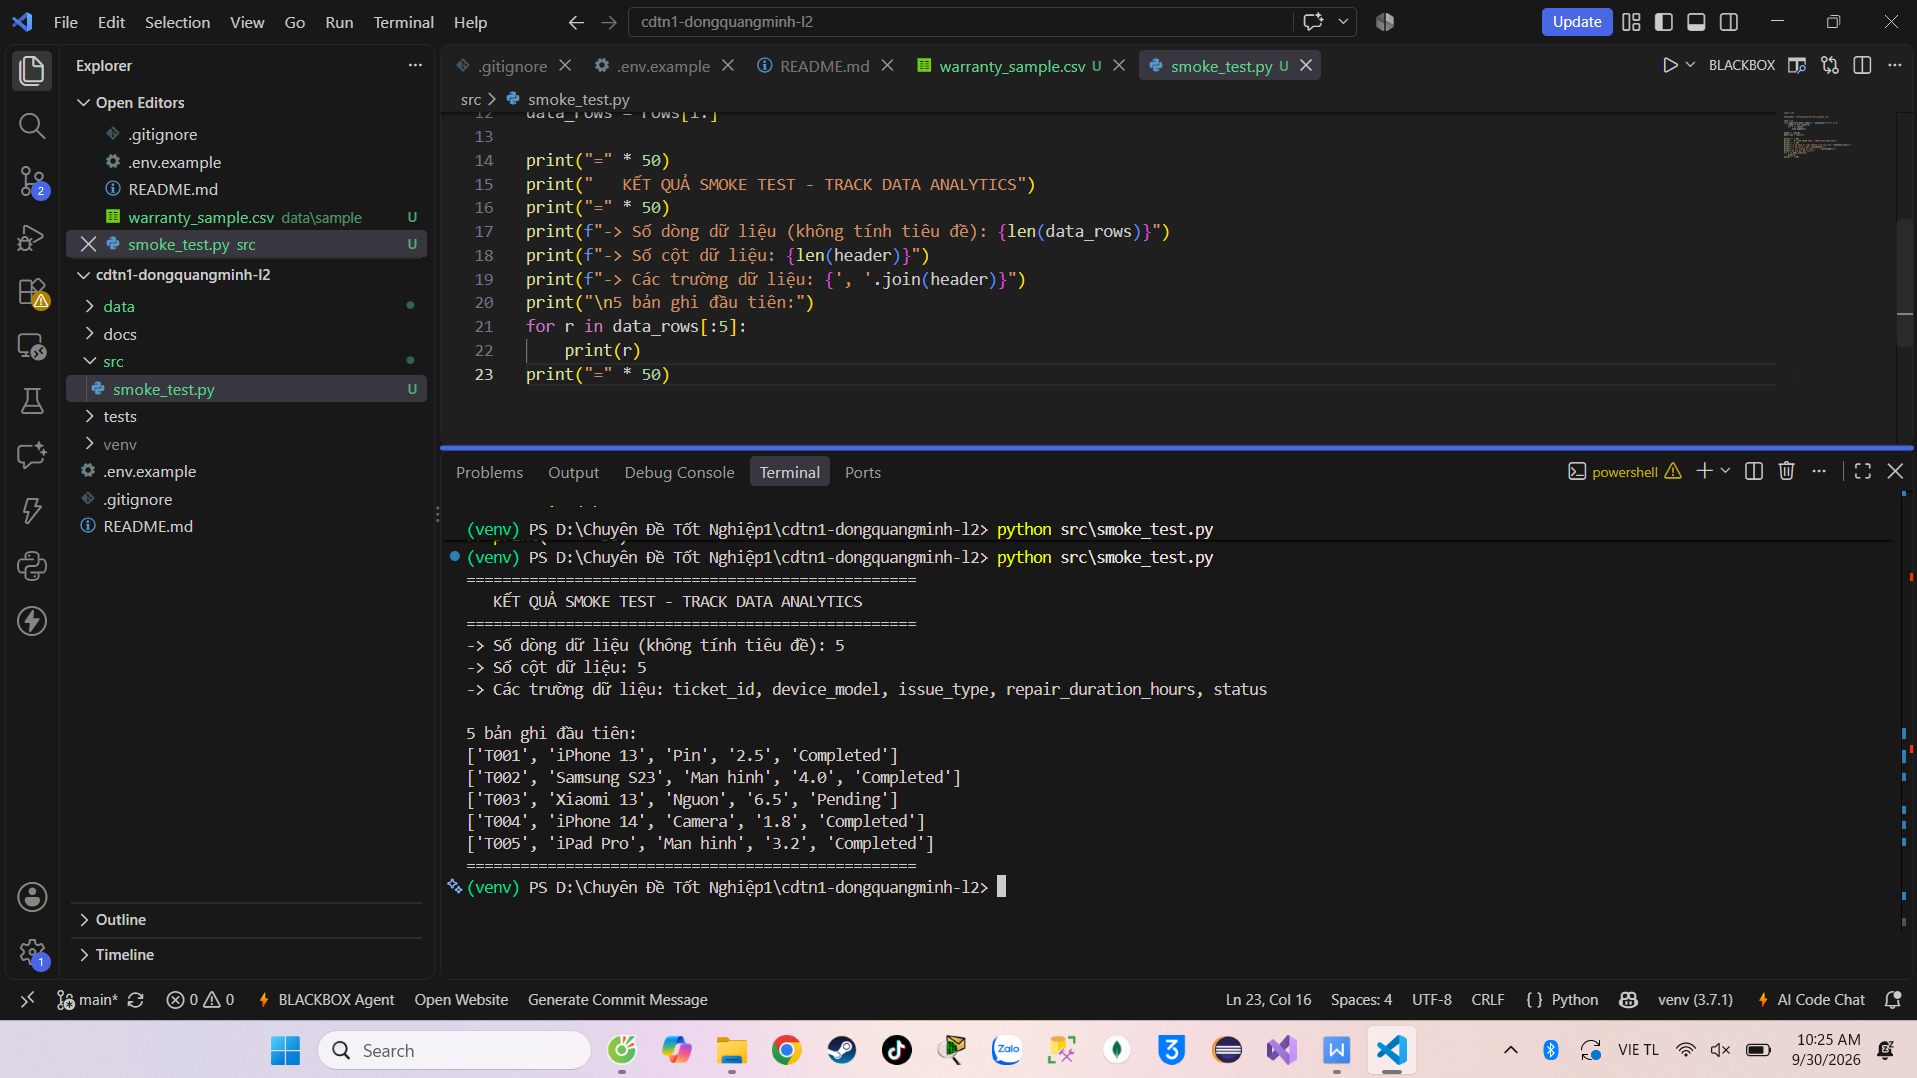
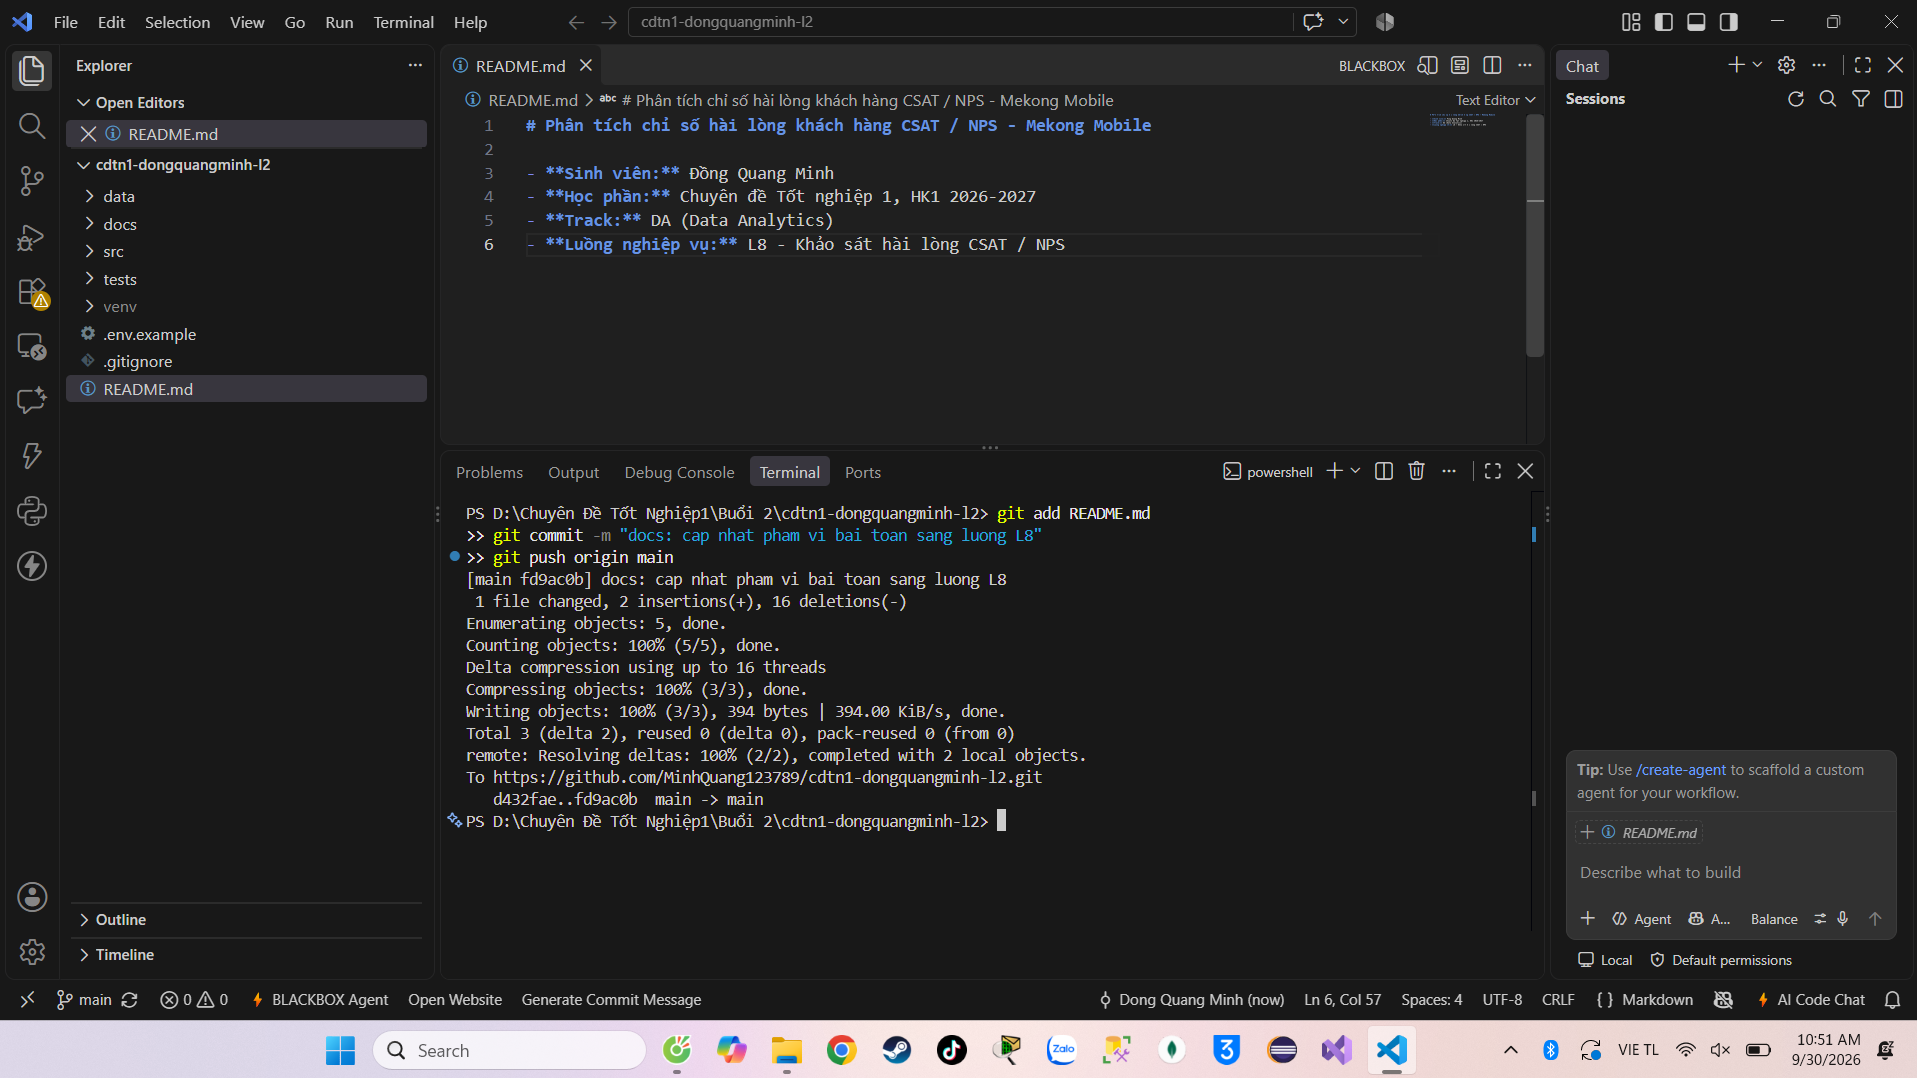
docs: add ai-disclosure and data-requirements specification

diff --git a/docs/data-requirements.md b/docs/data-requirements.md
@@ -1,0 +1,46 @@
+# ĐẶC TẢ YÊU CẦU DỮ LIỆU (DATA REQUIREMENT SPECIFICATION) - TRACK DA
+
+## 1. Phát biểu mức độ chi tiết (GRAIN - 1 câu)
+Mỗi bản ghi trong bảng dữ liệu phân tích đại diện cho một câu trả lời của một sinh viên trong một lượt làm bài thi trắc nghiệm cụ thể.
+
+---
+
+## 2. Bảng nguồn dữ liệu (Data Source Table)
+
+| Tên nguồn dữ liệu | Hệ thống nguồn | Định dạng | Tần suất cập nhật | Khối lượng ước tính |
+| :--- | :--- | :--- | :--- | :--- |
+| `raw_exam_submissions` | SQL Database (Làm bài trực tuyến) | Table (Relational) | Real-time theo lượt nộp | ~15,000 bản ghi/học kỳ |
+| `raw_student_answers` | MongoDB (Log chi tiết bài làm) | JSON / NoSQL | Real-time theo từng câu | ~450,000 bản ghi/học kỳ |
+| `master_questions` | SQL Database (Ngân hàng câu hỏi) | Table (Relational) | Khi giảng viên cập nhật | ~5,000 câu hỏi |
+
+---
+
+## 3. Từ điển dữ liệu nguồn (Data Dictionary)
+
+| Tên cột | Kiểu dữ liệu | Ý nghĩa nghiệp vụ | Giá trị hợp lệ | Tỉ lệ thiếu (Đo mẫu) |
+| :--- | :--- | :--- | :--- | :--- |
+| `submission_id` | VARCHAR(36) | Định danh duy nhất của lượt thi | Chuỗi UUID | 0.0% |
+| `student_id` | VARCHAR(20) | Mã số sinh viên làm bài | Định dạng chuỗi số chuẩn | 0.0% |
+| `exam_id` | VARCHAR(36) | Mã đề thi | UUID tham chiếu master_exams | 0.0% |
+| `total_score` | DECIMAL(4,2) | Điểm tổng kết của lượt thi | Từ 0.00 đến 10.00 | 0.0% |
+| `time_spent_seconds` | INT | Thời gian sinh viên làm bài (giây) | > 0 và <= thời gian tối đa của đề | 0.2% |
+| `question_id` | VARCHAR(36) | Mã câu hỏi | UUID tham chiếu ngân hàng câu | 0.0% |
+| `selected_option` | CHAR(1) | Phương án sinh viên chọn | 'A', 'B', 'C', 'D' hoặc NULL | 3.5% (Do SV bỏ trống) |
+| `is_correct` | BOOLEAN | Trạng thái đúng/sai | TRUE / FALSE | 0.0% |
+
+---
+
+## 4. Quy tắc chất lượng dữ liệu phải đạt (Data Quality Rules)
+* **Tính đầy đủ (Completeness):** Trường `total_score`, `submission_id`, `exam_id` phải đạt độ đầy đủ $\ge 99.8\%$.
+* **Tính duy nhất (Uniqueness):** Không tồn tại cặp trùng lặp `(student_id, exam_id)` đối với các bài thi chỉ cho phép thi một lần (độ trùng lặp = 0%).
+* **Tính hợp lệ (Validity):** 100% giá trị trường `total_score` phải nằm trong đoạn $[0.00, 10.00]$; trường `selected_option` chỉ nhận các giá trị `{A, B, C, D, NULL}`.
+
+---
+
+## 5. Danh sách câu hỏi phân tích (Analytical Questions)
+
+| Mã câu hỏi | Câu hỏi phân tích cần trả lời | Mức chi tiết báo cáo (Granularity) | Truy vết User Story |
+| :--- | :--- | :--- | :--- |
+| **AQ1** | Phổ điểm của từng lớp học phần có tuân theo phân phối chuẩn không? Có hiện tượng điểm dị biệt (outlier) bất thường không? | Theo từng Đề thi - từng Lớp học phần | US1, US3 |
+| **AQ2** | Những câu hỏi nào có độ phân biệt thấp (D < 0.2) cần được loại bỏ hoặc biên tập lại nội dung? | Theo từng Câu hỏi trắc nghiệm | US2 |
+| **AQ3** | Phương án nhiễu nào trong câu hỏi trắc nghiệm không có sinh viên nào lựa chọn? | Theo từng Phương án lựa chọn (A, B, C, D) | US4 |

diff --git a/docs/ai-disclosure.md b/docs/ai-disclosure.md
@@ -1,0 +1,14 @@
+# BẢNG KÊ KHAI SỬ DỤNG CÔNG CỤ AI (AI DISCLOSURE)
+
+| Công cụ AI | Dùng vào việc gì | Áp dụng ở phần nào | Cách kiểm chứng |
+| :--- | :--- | :--- | :--- |
+| **Google Gemini** | Hỗ trợ gợi ý dàn ý User Story theo chuẩn INVEST, sinh mẫu tiêu chí Given-When-Then và gợi ý cấu trúc bảng Data Specification | `docs/srs.md` (Mục 2, Mục 4, Mục 6) và `docs/data-requirements.md` | Đã đọc lại, chỉnh sửa các chỉ số thống kê (P-value, D-value) cho phù hợp với bài toán trắc nghiệm, tự kiểm tra bảng truy vết đảm bảo không có ô trống |
+| **Google Gemini** | Hỗ trợ kiểm tra các lỗi thường gặp trong Use Case Diagram (Lỗi 1, 2, 4) và hướng dẫn thiết lập ranh giới hệ thống trên draw.io | `docs/usecase.drawio` | Đã tự tay vẽ trực tiếp trên công cụ draw.io, đưa các Actor ra ngoài ranh giới và gán đúng tên động từ + đối tượng |
+
+---
+
+"Tôi xác nhận đã đọc, hiểu và chịu trách nhiệm về toàn bộ nội dung nộp."
+
+* **Họ và tên:** Đồng Quang Minh
+* **MSSV:** 2374802010308
+* **Ngày:** 03/10/2026
